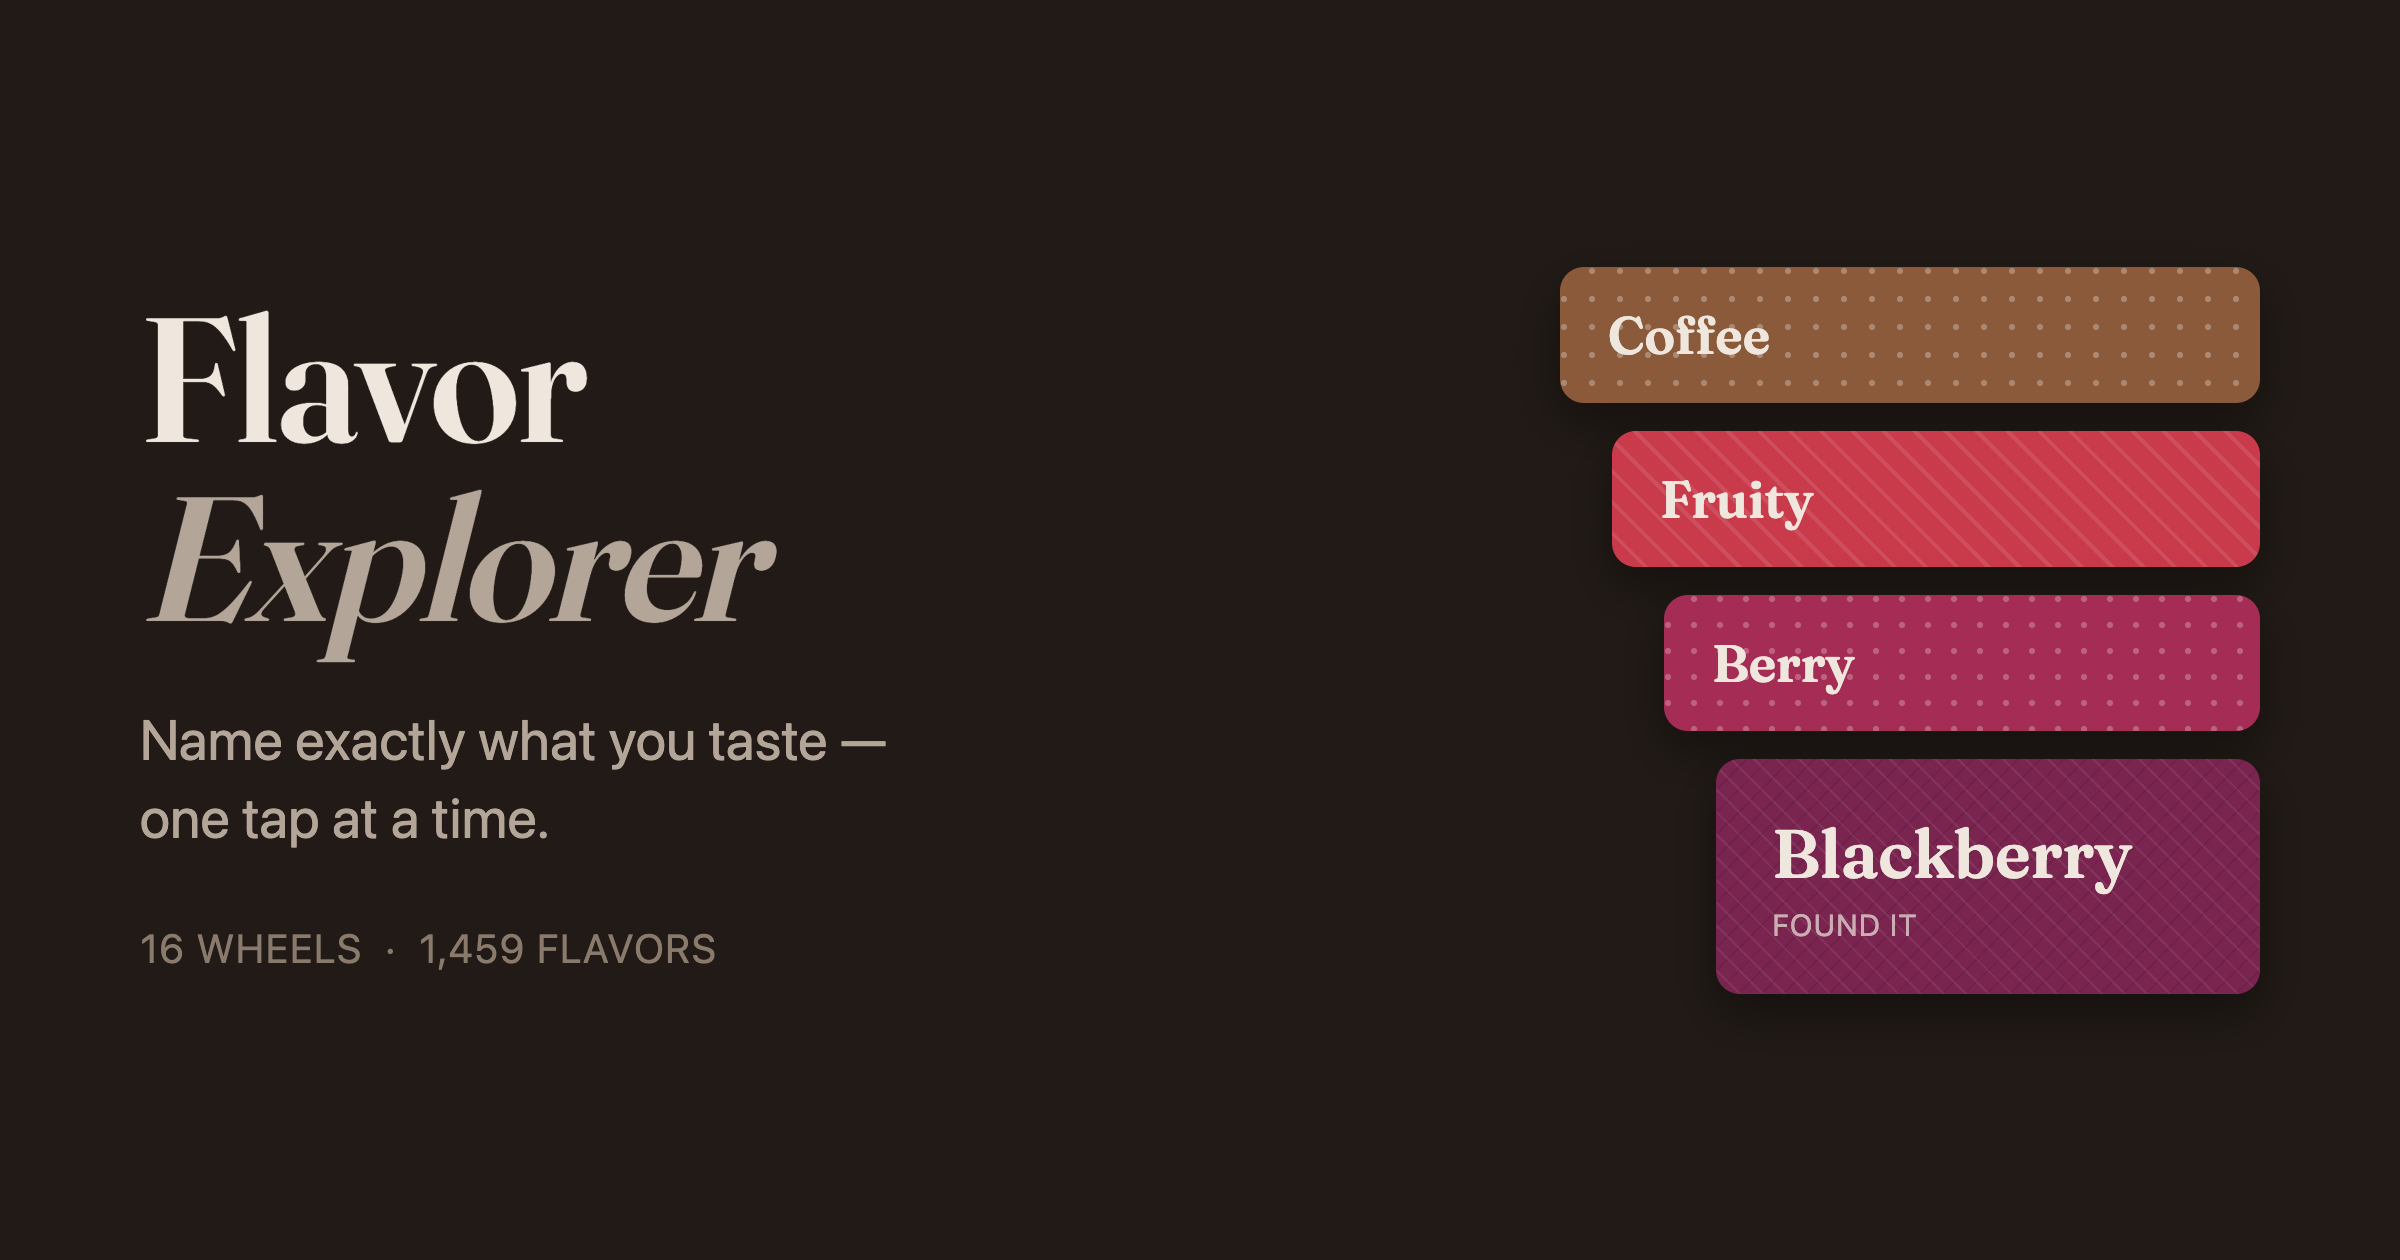
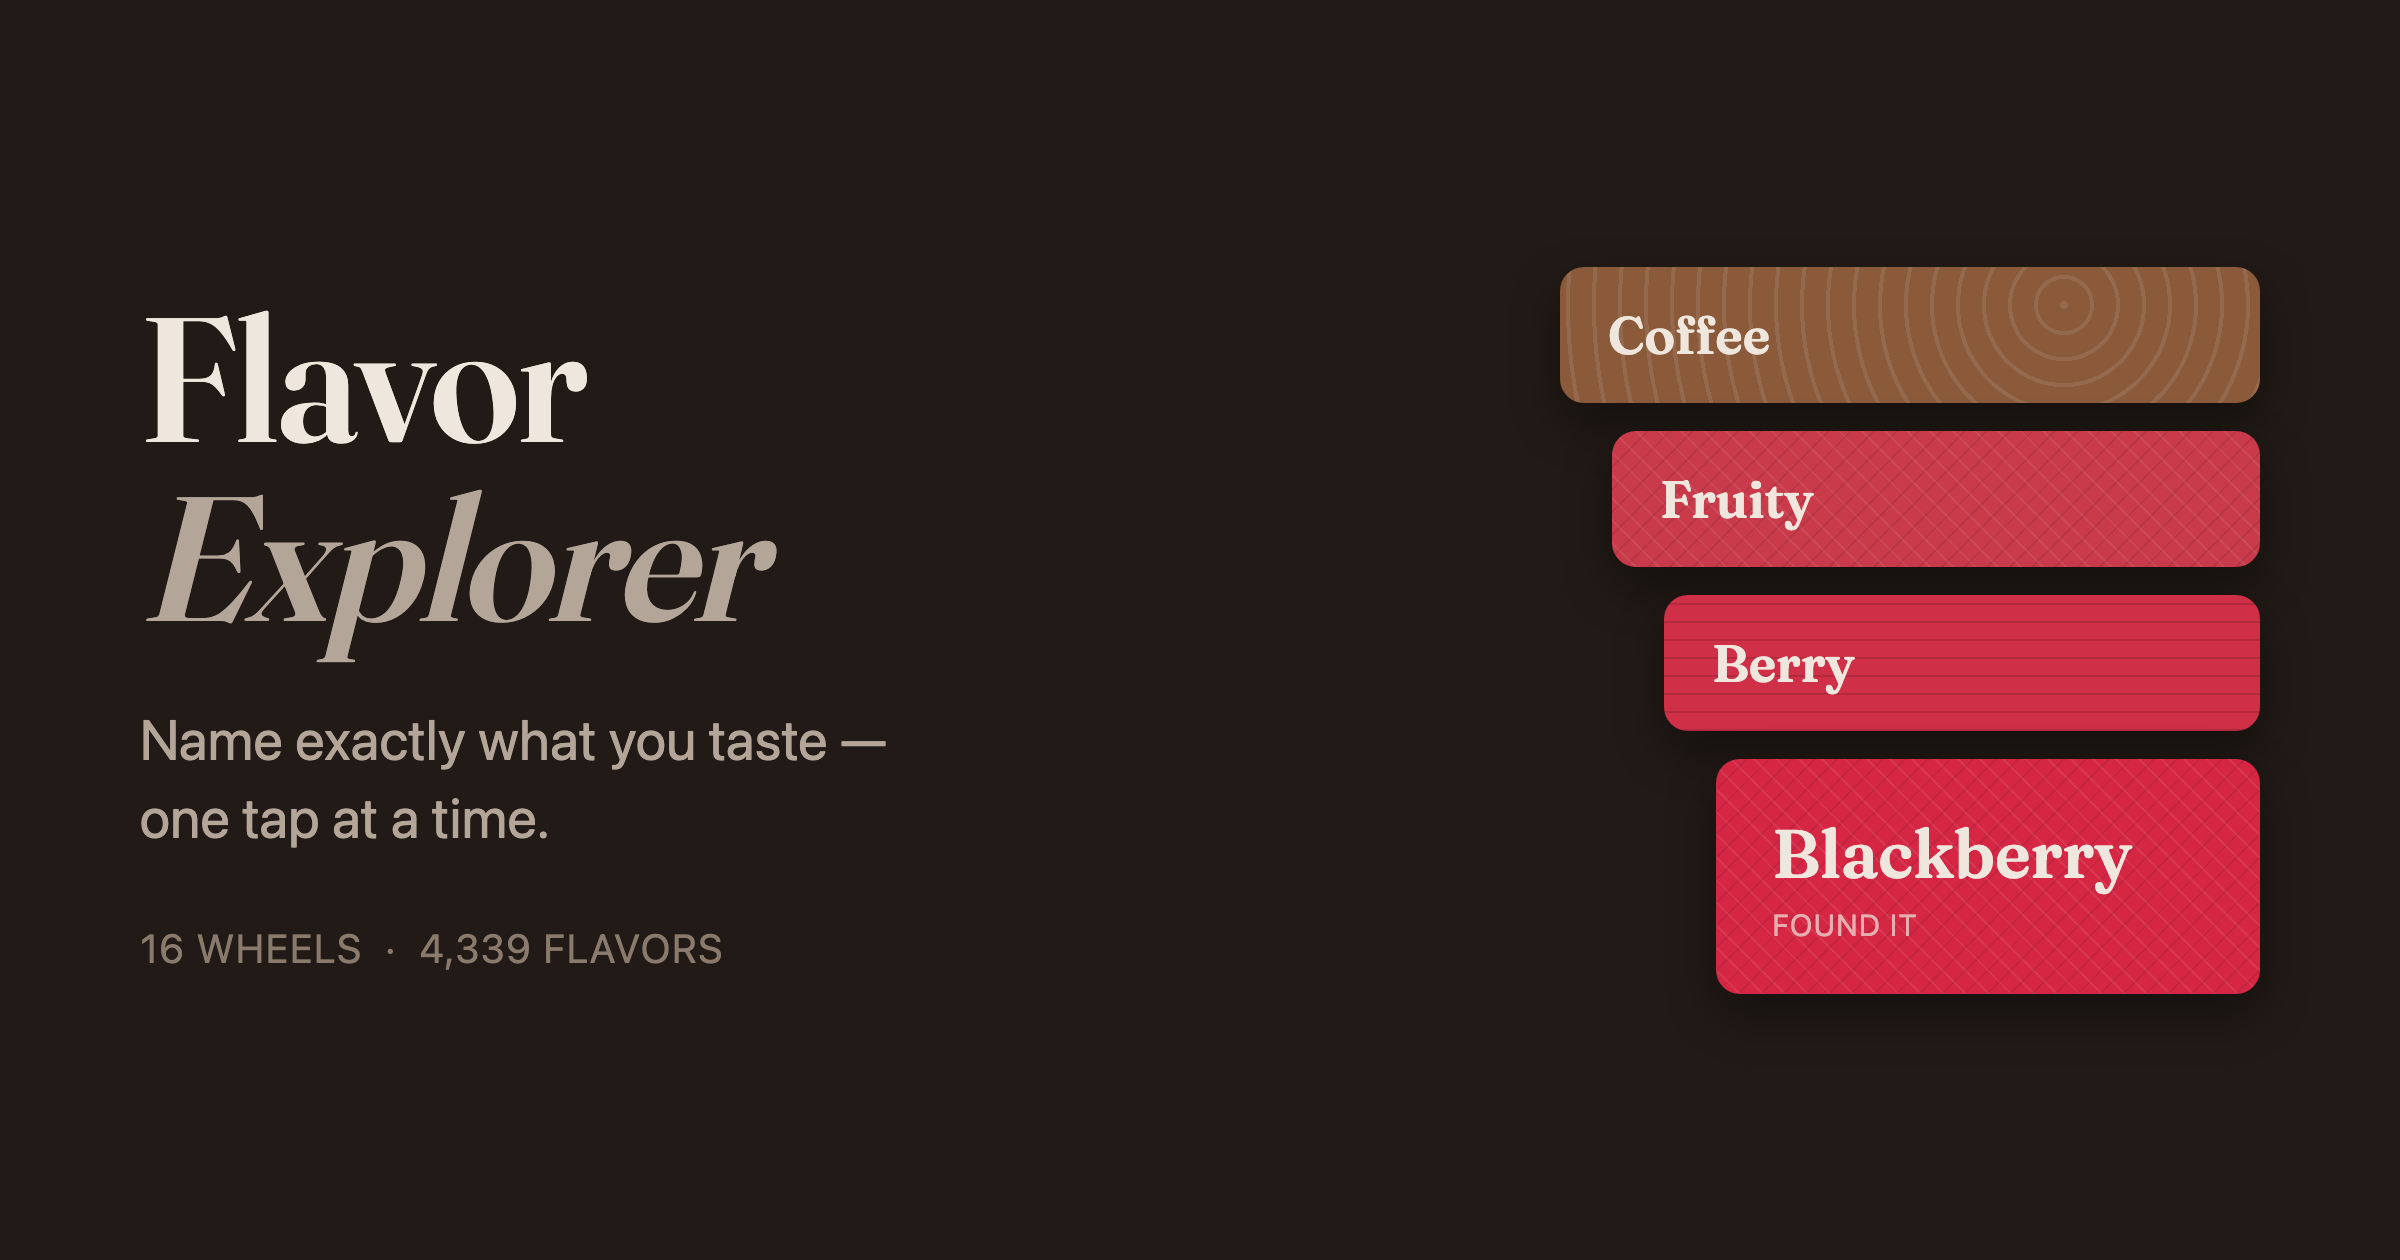
Refresh OG image and description for 4,339-flavor Everything mode

Changed region(s): [[0.6875, 0.4643, 0.9688, 0.8048], [0.1562, 0.7429, 0.3125, 0.7738]]

diff --git a/index.html b/index.html
@@ -7,7 +7,7 @@
 <meta name="description" content="An interactive alternative to the flavor wheel: drill down from 16 tasting subjects — coffee, wine, cheese, mezcal and more — to the exact flavor on your tongue.">
 <meta name="theme-color" content="#211a16">
 <meta property="og:title" content="Flavor Explorer">
-<meta property="og:description" content="Name exactly what you taste — drill down through 16 tasting wheels and 1,459 flavors, from coffee and wine to cheese, mezcal, and maple syrup.">
+<meta property="og:description" content="Name exactly what you taste — drill down through 16 tasting wheels and over 4,300 flavors, from coffee and wine to cheese, mezcal, and maple syrup.">
 <meta property="og:type" content="website">
 <meta property="og:url" content="https://mimafogeus2.github.io/flavorexplorer/">
 <meta property="og:image" content="https://mimafogeus2.github.io/flavorexplorer/og.png">
